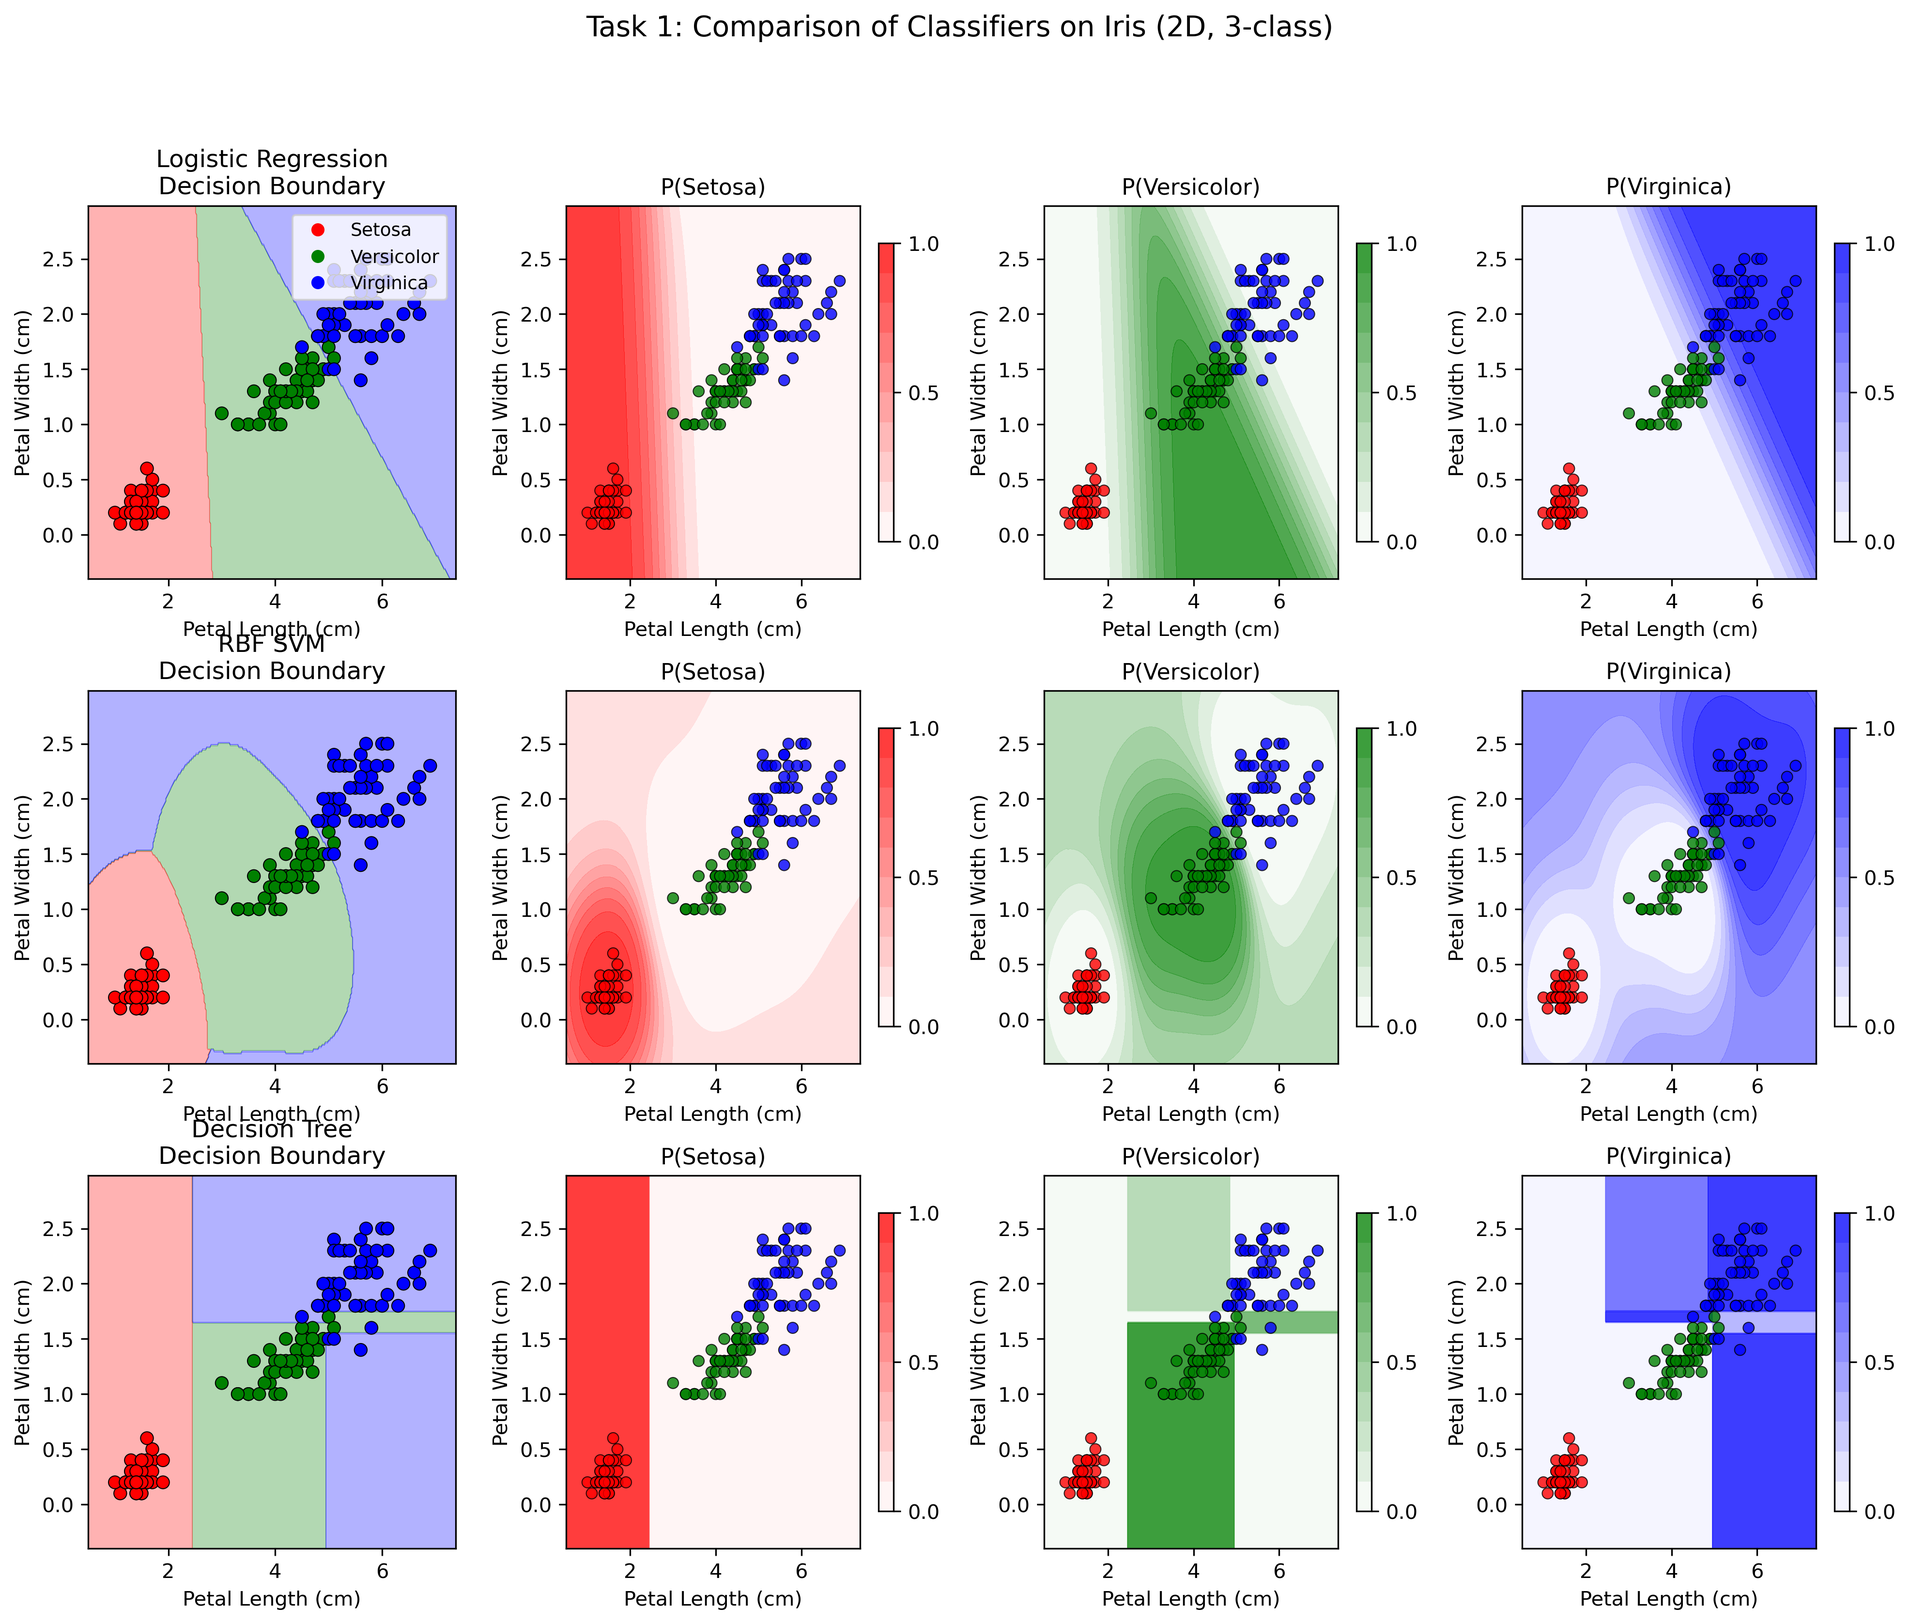
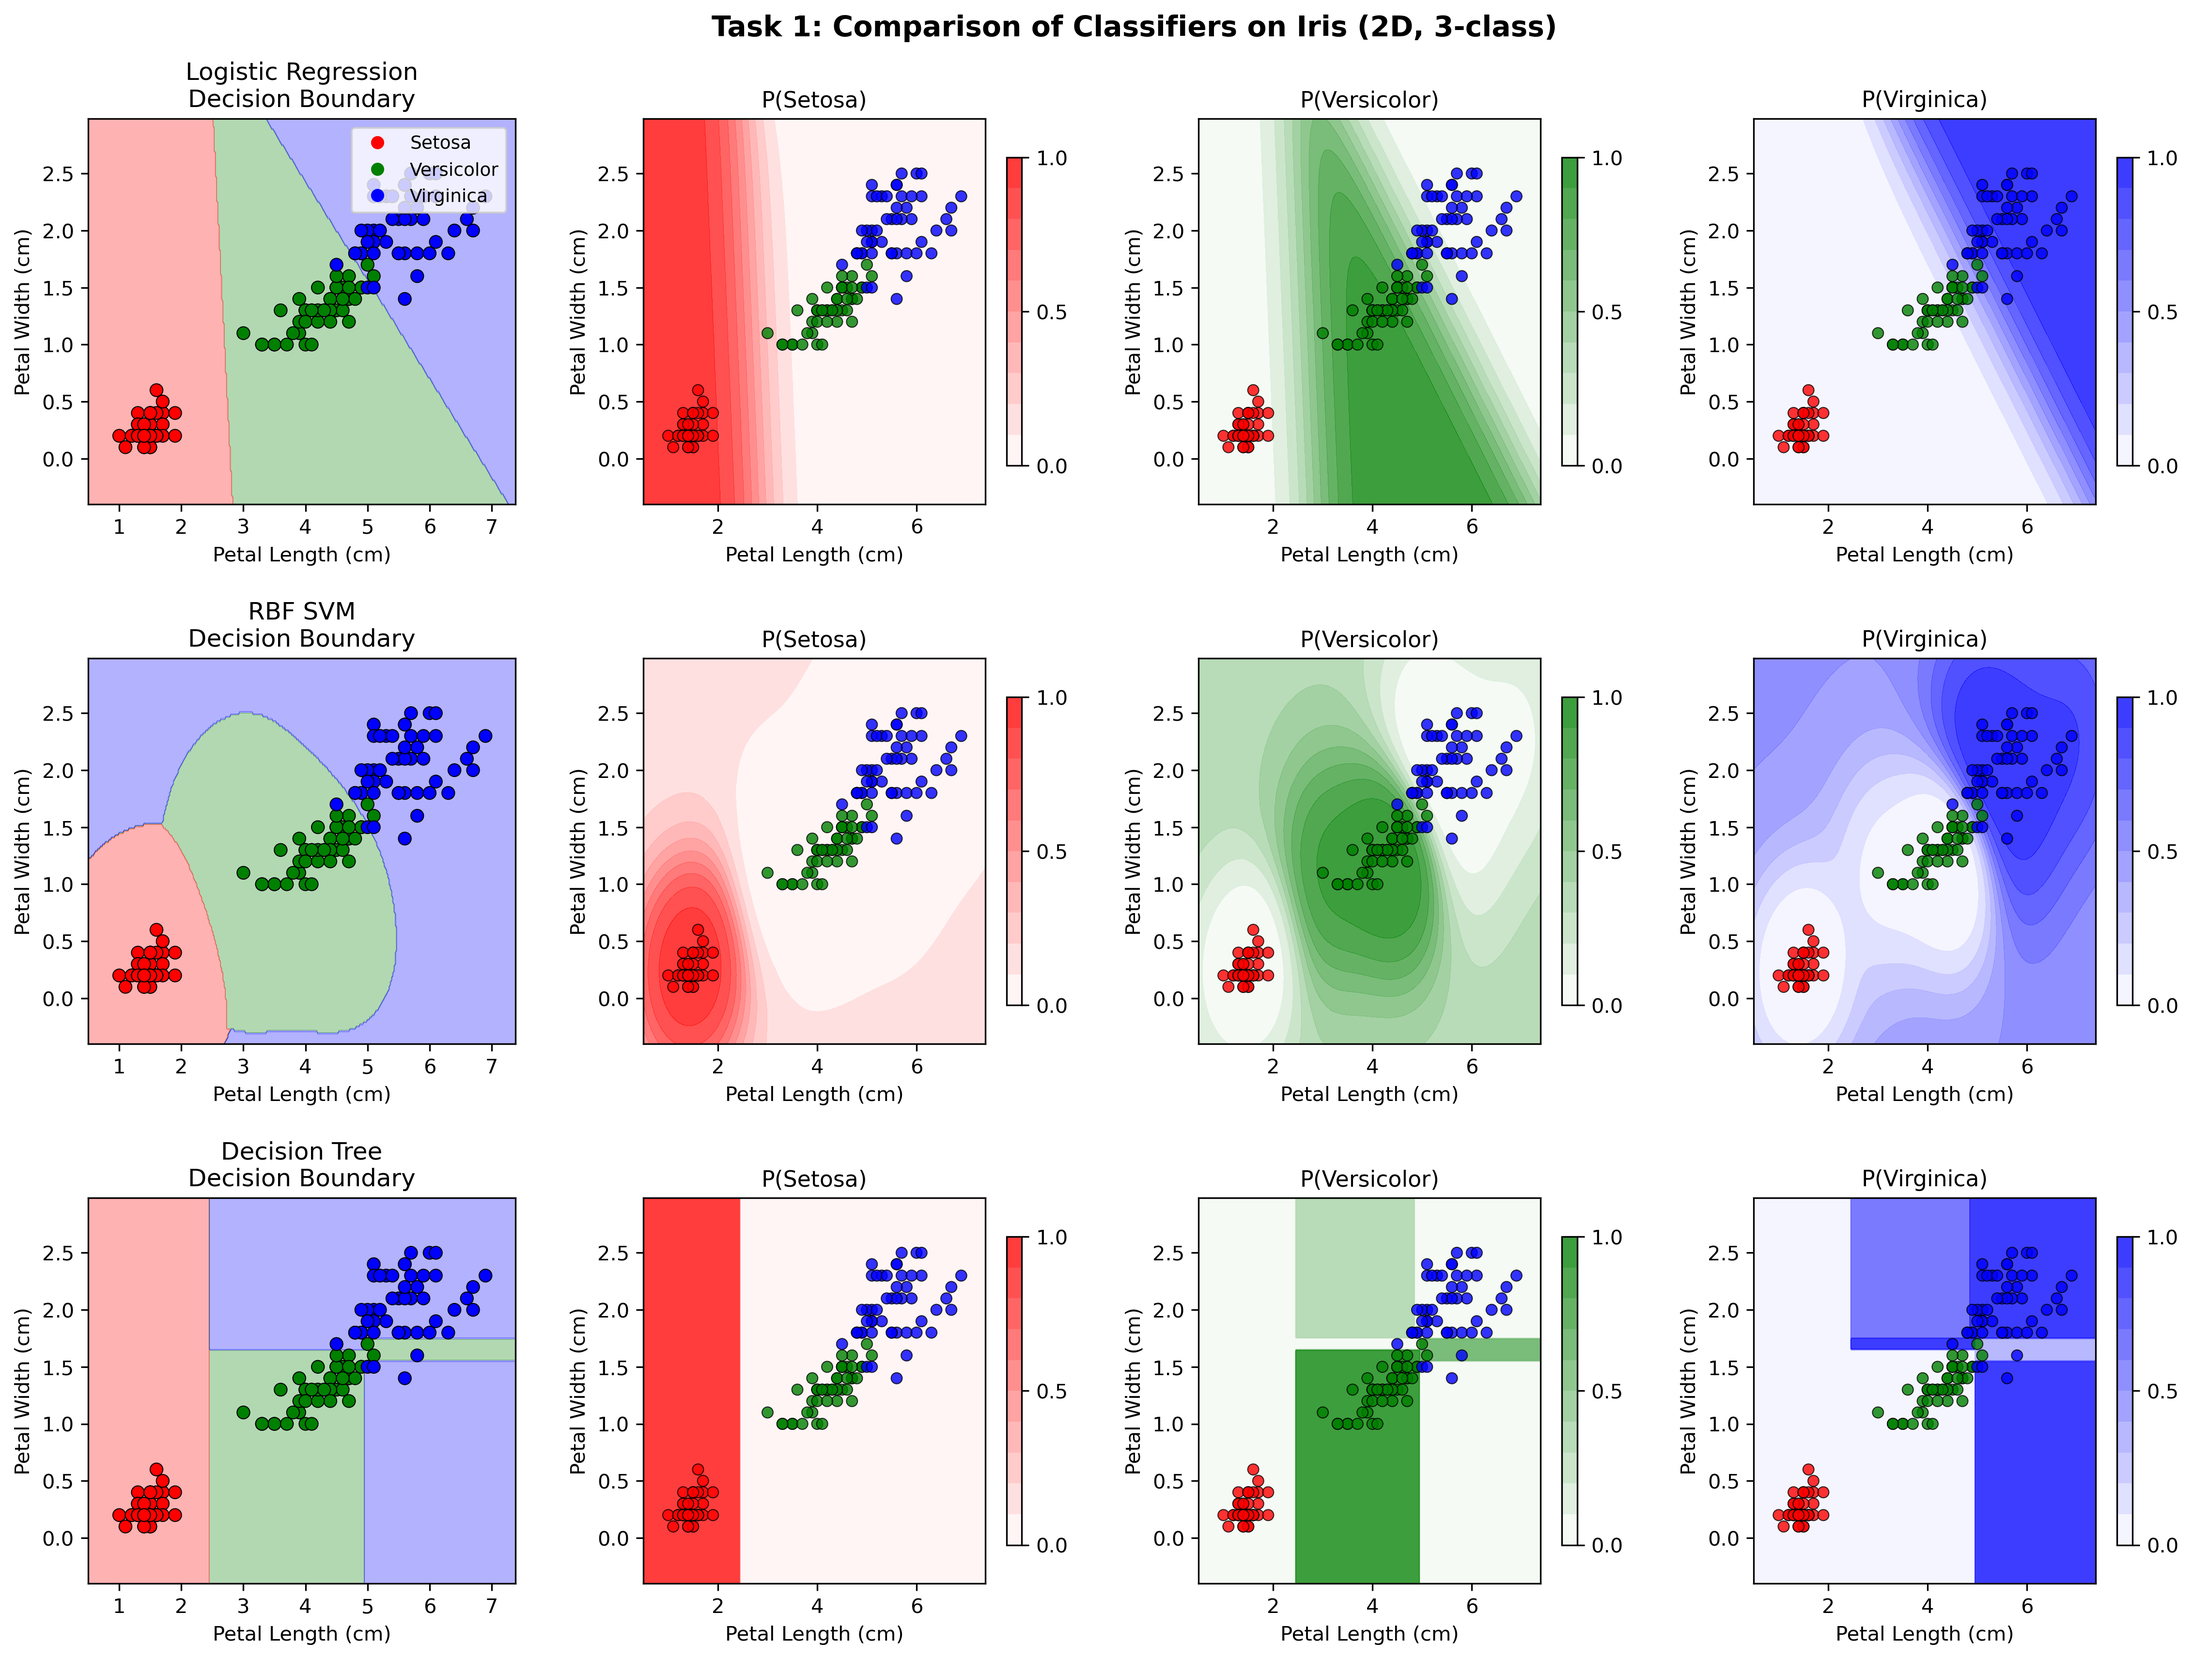
修改

diff --git a/code/task1.py b/code/task1.py
@@ -40,7 +40,15 @@ grid = np.c_[xx.ravel(), yy.ravel()]
 # ----------------------------
 n_classifiers = len(classifiers)
 fig, axes = plt.subplots(n_classifiers, 4, figsize=(16, 4 * n_classifiers))
-plt.subplots_adjust(wspace=0.3, hspace=0.3)
+# 核心修复1：调整子图间距，给顶部标题预留空间（增加top参数）
+plt.subplots_adjust(
+    wspace=0.3,    # 水平间距
+    hspace=0.4,    # 垂直间距（增大避免子图间重叠）
+    top=0.92,      # 图的顶部边界（
+    bottom=0.08,   # 底部边界
+    left=0.05,     # 左侧边界
+    right=0.95     # 右侧边界
+)
 
 # 统一颜色：Setosa=red, Versicolor=green, Virginica=blue
 colors = ['red', 'green', 'blue']
@@ -92,8 +100,14 @@ for idx, (name, clf) in enumerate(classifiers.items()):
 # ----------------------------
 # 5. 保存 & 显示
 # ----------------------------
-plt.suptitle('Task 1: Comparison of Classifiers on Iris (2D, 3-class)', 
-             fontsize=14, y=0.99)
-plt.savefig('task1_classifiers_comparison.png', dpi=300, bbox_inches='tight')
-plt.savefig('task1_classifiers_comparison.pdf', bbox_inches='tight')  # LaTeX 友好
+
+plt.suptitle(
+    'Task 1: Comparison of Classifiers on Iris (2D, 3-class)', 
+    fontsize=14, 
+    y=0.98,       
+    weight='bold' 
+)
+
+plt.savefig('task1.png', dpi=300, bbox_inches='tight')
+plt.savefig('task1_classifiers_comparison.pdf', bbox_inches='tight')  
 plt.show()

diff --git a/README.md b/README.md
@@ -1,85 +1,78 @@
 
-## 🎯 项目目标
+## 📊 核心成果与可视化
 
-1.  **基础建模**：使用 `scikit-learn` 对Iris数据集进行探索性分析，并在二维/三维空间中可视化不同分类器（Logistic Regression, SVM, Decision Tree）的决策边界。
-2.  **创新拓展**：选用高难度的图像数据集（STL-10, CIFAR-10），构建“**ResNet18特征提取 → LDA降维 → SVM分类 → Grad-CAM可解释性**”的技术闭环，实现模型决策过程的可视化。
+### 🌿 任务一：二维决策边界对比  
+对比 Logistic Regression、SVM、Decision Tree 在花瓣长度–宽度平面的三分类性能。
 
-## 🛠 核心技术栈
-
-*   **Python**: 主要编程语言。
-*   **scikit-learn**: 用于传统机器学习模型训练与评估。
-*   **PyTorch**: 用于加载预训练的ResNet18模型进行深度特征提取。
-*   **matplotlib / seaborn**: 用于数据可视化。
-*   **OpenCV / PIL**: 用于图像处理和Grad-CAM热力图生成。
-*   **Jupyter Notebook** (可选): 用于交互式开发和结果展示。
-
-## 📊 主要成果
-
-### 1. Iris 数据集可视化
-
-我们成功绘制了多种分类器在二维特征空间中的决策边界，并实现了三维空间下的决策曲面和概率体渲染。
-
-#### 二维决策边界示例
-![Iris 2D Decision Boundary](task1.png)
-
-#### 三维概率体渲染示例
-![Iris 3D Probability Map](3D_Probability_Map.png)
-
-### 2. 图像数据集分类与可解释性 (XAI)
-
-我们在STL-10和CIFAR-10数据集上取得了优异的成绩，并构建了直观的XAI Dashboard，揭示了模型的决策依据。
-
-#### STL-10 分类结果示例
-![STL-10 Dataset Sample](stl10.png)
-
-#### STL-10 XAI Dashboard 示例
-![STL-10 XAI Dashboard](stl10_dashboard.png)
-*Dashboard展示了原图、Grad-CAM热力图（红色区域为模型关注点）和分类置信度。*
-
-#### CIFAR-10 分类结果示例
-![CIFAR-10 Dataset Sample](cifar10.png)
-
-#### CIFAR-10 XAI Dashboard 示例
-![CIFAR-10 XAI Dashboard](cifar10_dashboard.png)
-*同样展示了模型如何“看”待图像并做出决策。*
-
-## 🚀 如何运行
-
-1.  **克隆仓库**:
-    ```bash
-    git clone https://github.com/RobertAlanJohnson/python2.git
-    cd python2
-    ```
-
-2.  **安装依赖**:
-    ```bash
-    pip install -r requirements.txt  # 如果存在此文件，否则请手动安装所需库
-    ```
-    常用依赖包包括: `numpy`, `pandas`, `scikit-learn`, `matplotlib`, `seaborn`, `torch`, `torchvision`, `opencv-python`。
-
-3.  **运行脚本**:
-    *   运行Iris相关任务:
-        ```bash
-        python task1.py
-        python task2.py
-        python task3.py
-        ```
-    *   运行图像分类与可视化任务:
-        ```bash
-        python stl_calssifiersed.py
-        python cifar10.py
-        ```
-
-## 📝 说明
-
-*   本项目代码已按实验报告要求完成所有指定任务。
-*   所有生成的图片（`.png`）均已保存在仓库中，便于直接查看结果。
-*   `dashboard.py` 是一个通用的XAI可视化模块，可供其他项目复用。
-*   在STL-10数据集上实现了 **98.6%** 的测试准确率。
-
-## 📬 联系方式
-
-如有任何问题或建议，欢迎提交Issue。
+![Iris 2D Decision Boundaries](code/task1.png)
 
 ---
-> **注**: 本项目为课程作业，旨在学习和实践。代码和结果仅供学术交流之用。
+
+### 🌿 任务二：三维决策曲面可视化  
+针对 Versicolor 与 Virginica 构建二分类问题，选取三特征（花萼宽、花瓣长、花瓣宽），训练 Logistic Regression，生成**硬决策曲面**。
+
+![Iris 3D Decision Surface](code/task2.png)
+
+---
+
+### 🌿 任务三：三维概率体渲染  
+在同一三特征空间中计算连续预测概率：  
+- 颜色深浅表示第三个特征维度；  
+- Z 轴高度表示分类概率（>0.5 为 Virginica）；  
+- 直观展现置信度在决策面附近的平滑过渡。
+
+二特征置信度图
+![Iris 3D Probability Map](code/task31.png)
+三特征概率图
+![Task3 Additional Analysis](code/task3.png)
+
+---
+
+### 🖼 任务四：图像分类与可解释性（XAI）  
+
+#### STL-10 数据集样本  
+![STL-10 Samples](code/stl10.png)
+
+#### STL-10 XAI Dashboard（Grad-CAM）  
+![STL-10 XAI Dashboard](code/stl10_dashboard.png)
+
+#### CIFAR-10 数据集样本  
+![CIFAR-10 Samples](code/cifar10.png)
+
+#### CIFAR-10 XAI Dashboard（Grad-CAM）  
+![CIFAR-10 XAI Dashboard](code/cifar10_dashboard.png)
+
+> 💡 **Dashboard 三要素**：原图｜Grad-CAM 热力图（红色为高关注区）｜置信度条形图。
+
+---
+
+## 🛠 技术实现
+
+| 模块 | 方法/工具 |
+|------|-----------|
+| 数据探索 | `pandas`, `seaborn`, `matplotlib` |
+| 传统建模 | `scikit-learn` (LR, SVM, DT, LDA) |
+| 深度特征提取 | 预训练 `ResNet18` (PyTorch) |
+| 可解释性 | `Grad-CAM` + 自定义 `dashboard.py` |
+| 可视化 | Matplotlib 3D, Seaborn, OpenCV overlay |
+
+**关键指标**：STL-10 测试准确率 **98.6%**
+
+---
+
+## 🚀 运行指南
+
+```bash
+git clone https://github.com/RobertAlanJohnson/python3.git
+cd python3/code
+
+# 安装依赖（推荐虚拟环境）
+pip install numpy pandas scikit-learn matplotlib seaborn opencv-python torch torchvision
+
+# 依次运行任务
+python task1.py    # → task1.png
+python task2.py    # → task2.png
+python task3.py    # → task3.png
+python stl_calssifiersed.py  # → stl10.png
+python cifar10.py  # → cifar10.png
+python dashboard.py #→ 注意力热力图
